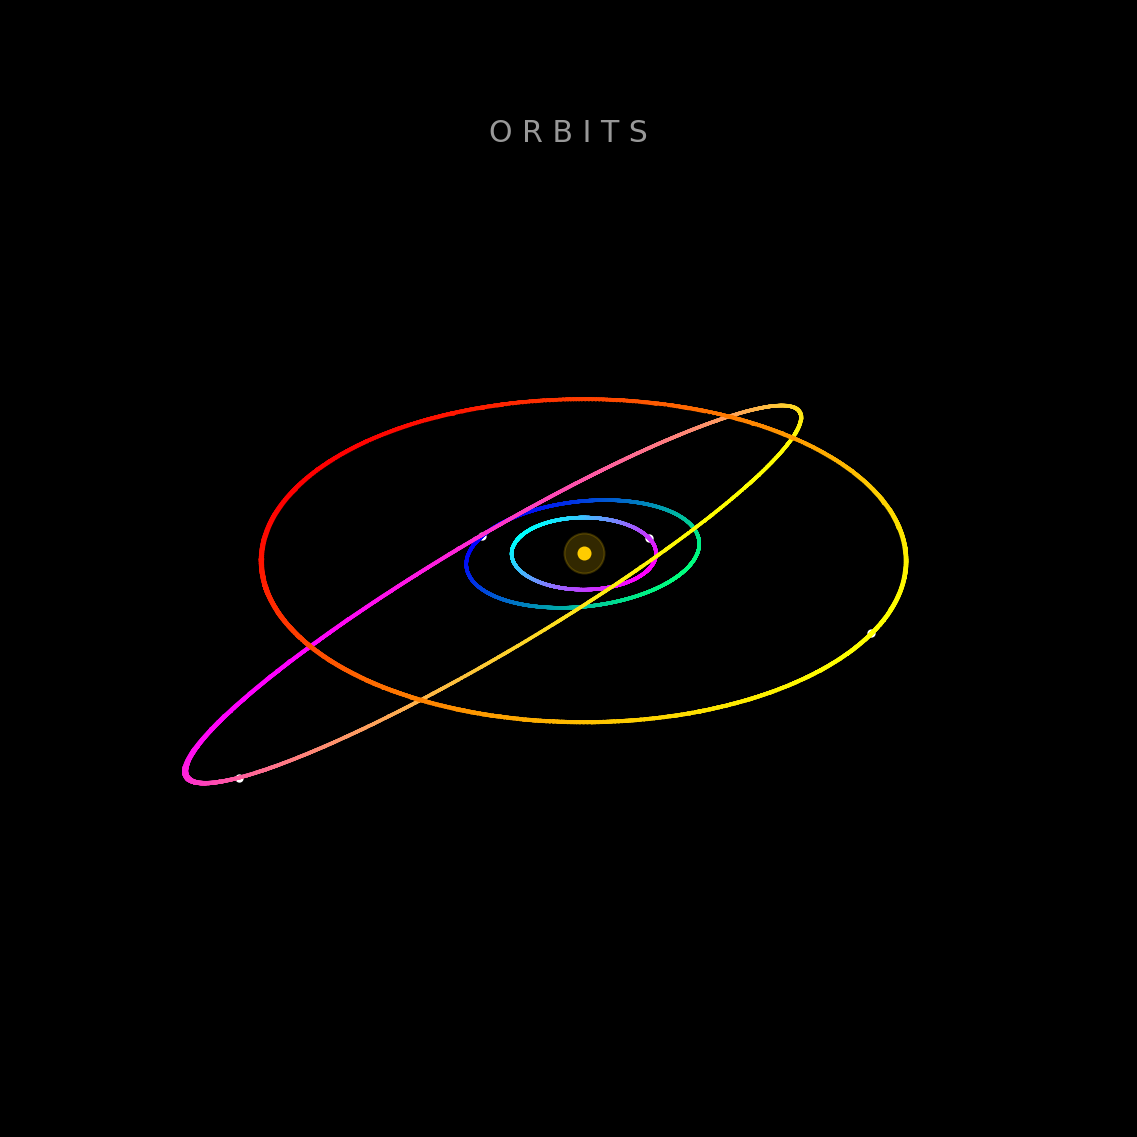
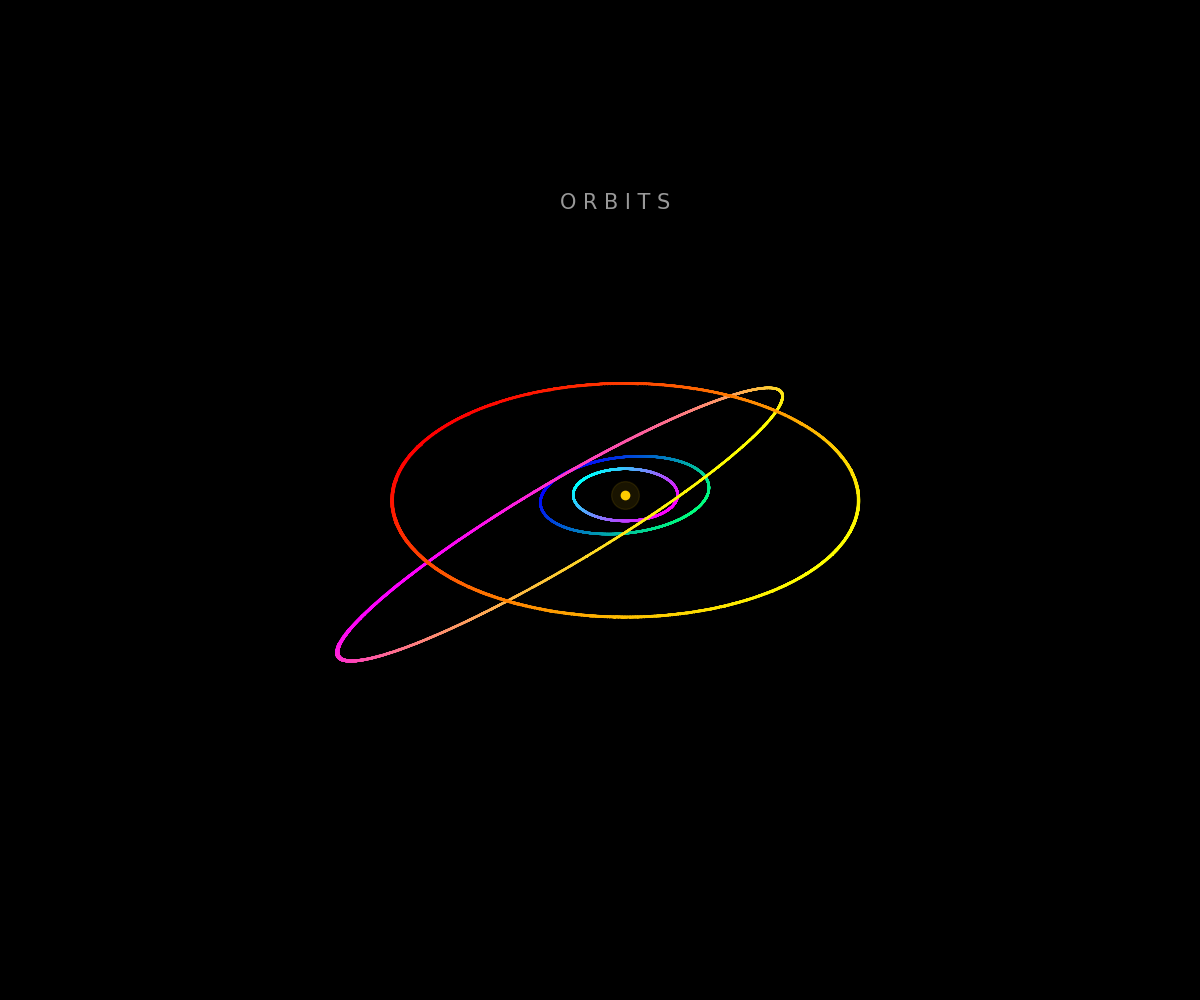
Reduce Jupiter glow and remove trail head marker
Lower the alpha of Jupiter's large translucent marker from 0.2 to 0.1 to make the glow subtler, and remove the white 'head' scatter that marked the current position on each trail. Also a small comment tweak and updated the associated orbit figure image.

diff --git a/Physics-Scripts/JupiterOrbitSimulator-Example.py b/Physics-Scripts/JupiterOrbitSimulator-Example.py
@@ -145,10 +145,10 @@ ax_art.set_facecolor('black')
 cmaps = ['autumn', 'cool', 'winter', 'spring'] 
 
 # --- PLOTTING ---
-# 1. Plot Jupiter (The "Star" in the center)
+# Plot jupiter
 # We plot it twice: once solid, once large and transparent for a "glow" effect
 ax_art.plot([0], [0], [0], 'o', color='#ffcc00', markersize=6, zorder=20)
-ax_art.plot([0], [0], [0], 'o', color='#ffcc00', markersize=20, alpha=0.2, zorder=19)
+ax_art.plot([0], [0], [0], 'o', color='#ffcc00', markersize=20, alpha=0.1, zorder=19)
 
 for i, name in enumerate(names):
     if name == 'Jupiter': continue
@@ -170,9 +170,7 @@ for i, name in enumerate(names):
     sc = ax_art.scatter(x, y, z, c=c_norm, cmap=cmaps[i % 4], 
                         s=0.5, alpha=0.8, depthshade=True)
     
-    # Add a bright "head" to the trail (current position)
-    ax_art.scatter(x[-1], y[-1], z[-1], color='white', s=10, alpha=1.0)
-
+   
 
 # Force aspect ratio to be equal
 limit = 2.0e9 # 2 million km
